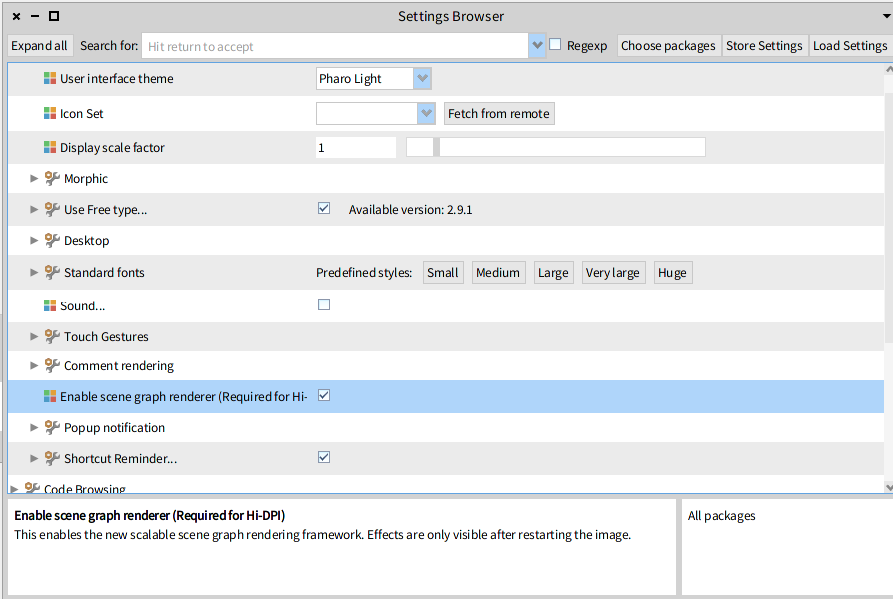
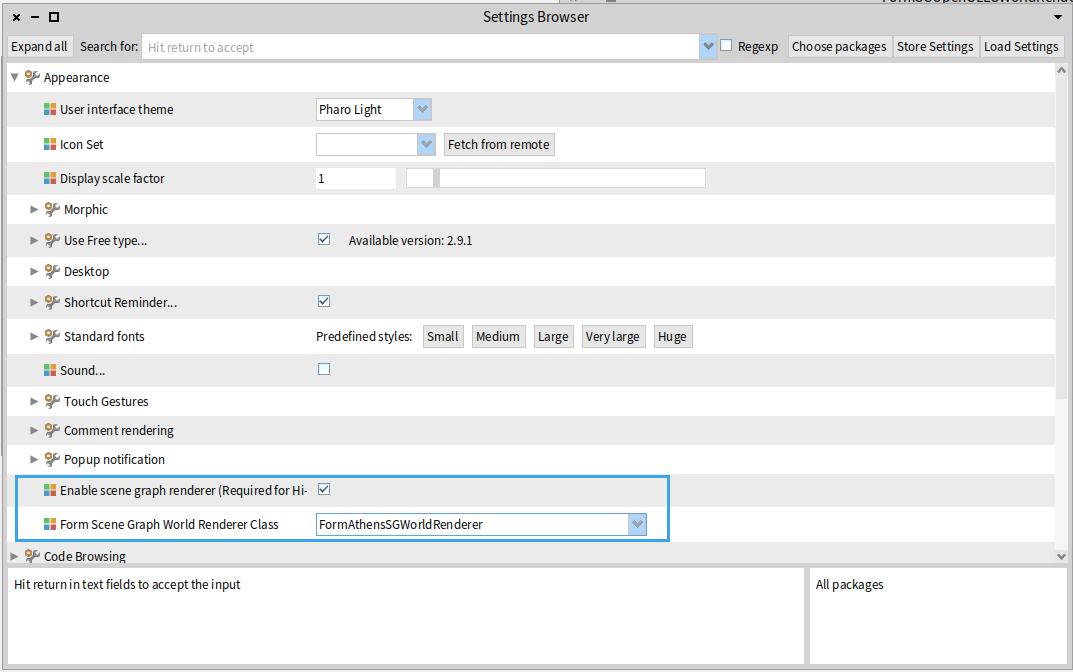
I updated the Readme.

Changed region(s): [[0.0, 0.0, 1.0, 1.0], [0.3024, 0.4508, 0.7861, 0.5409], [0.3024, 0.3306, 0.5442, 0.3907]]

diff --git a/README.md b/README.md
@@ -2,13 +2,29 @@
 ## Rendering framework inspired on GSK for Pharo.
 
 ### Loading the framework in Pharo
+
+For loading this framework with the default software based backend, you need to
+execute the following script in a playground:
+
 ```smalltalk
-"Scene graph renderin framework"
+"Scene graph rendering framework"
 Metacello new
    baseline: 'FormSceneGraph';
    repository: 'github://ronsaldo/form-scene-graph';
    load.
 ```
+
+If you feel adventurous, and want to try the experiment OpenGL ES accelerated backend, you need
+to load it with the following script in a playground, and then select it in the *Setting browser*:
+
+```smalltalk
+"Scene graph rendering framework"
+Metacello new
+   baseline: 'FormSceneGraph';
+   repository: 'github://ronsaldo/form-scene-graph';
+   load: AcceleratedOpenGL.
+```
+
 ### Enabling the new renderer on the main Pharo window.
 For enabling this new renderer for the Pharo Morphic World, in addition to loading
 this baseline it is required to also enable its usage through the *Settings browser*:
@@ -19,9 +35,16 @@ The effect of changing this setting is only visible after restarting the image b
 
 ### Extra: opening external windows (Very experimental)
 ```smalltalk
-"Open an external world with the athens based scene graph renderer."
+"Open an external world with the athens based scene graph renderer. (Most of the work goes here)"
 FormSGAthensWorldMorph new open.
 
-"Open an external world with the SDL2 based renderer. Font texture caching is currently slow."
+"Open an external world with the OpenGL ES based scene graph renderer. (Experimental, may be unstable)"
+FormSGAthensWorldMorph new open.
+
+"Open an external world with the SDL2 based renderer. (Several glitches and pending issues to fix)"
 FormSGWorldMorph new open.
+
+"Open an external world with the BitBlt based renderer. (Incomplete)"
+FormSGCanvasWorldMorph new open.
+
 ```
